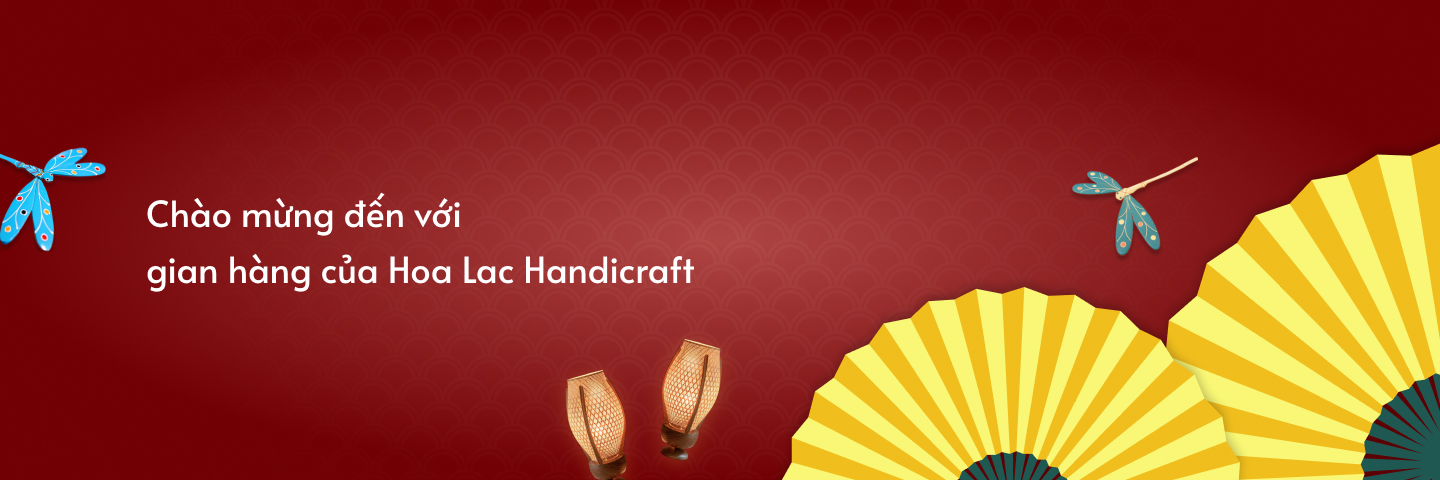
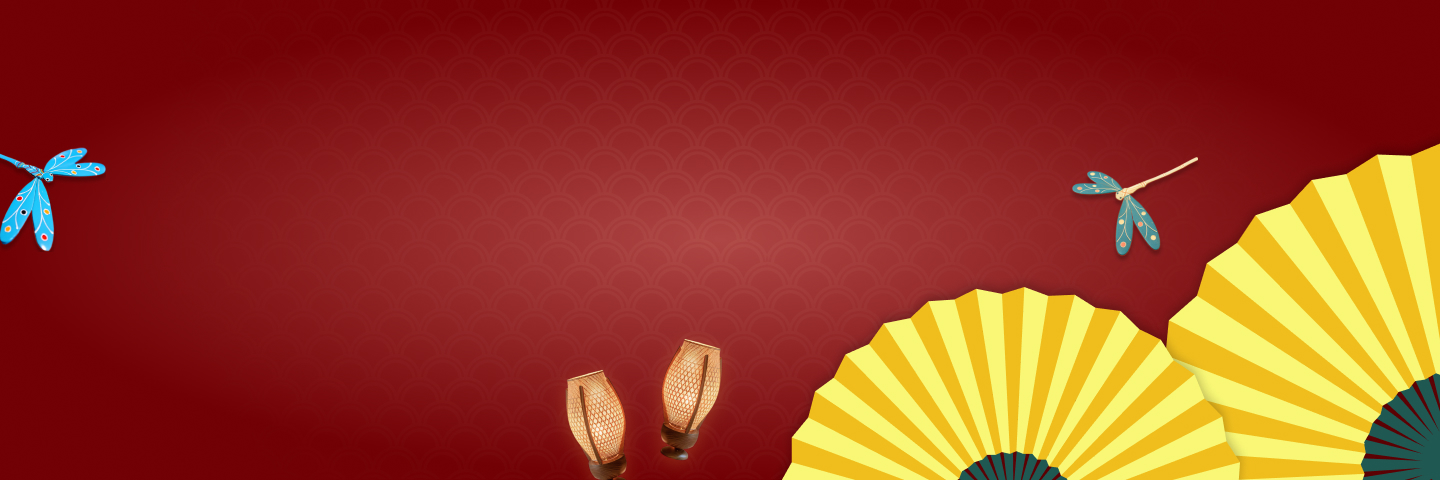
mapping Categories

Changed region(s): [[0.0938, 0.5312, 0.5, 0.625], [0.0938, 0.4062, 0.3438, 0.5]]

diff --git a/frontend/src/pages/Shop.jsx b/frontend/src/pages/Shop.jsx
@@ -1,32 +1,23 @@
-import React from 'react';
-import ProductCard from '../components/shop/ProductCard';
-import Pagination from '../components/shop/Pagination';
+import React, { useState } from 'react';
 import Footer from '../components/shared/Footer';
 import Header from '../components/shared/Header';
 import ShopBanner from '../components/shop/ShopBanner';
-import { useState } from 'react';
+import { ProductCard, Pagination } from '../components/shop/ShopComponents';
+import ShopFilter from '../components/shop/ShopFilter';
 
 export default function Shop() {
   const [selectedCategory, setSelectedCategory] = useState('Chuồn chuồn tre Thạch Xá');
+
   return (
     <div className="bg-[#fdfeee] min-h-screen">
       <Header />
-  <ShopBanner onSelect={label => setSelectedCategory(label)} />
+      <ShopBanner onSelect={(label) => setSelectedCategory(label)} />
 
-  <main className="max-w-screen-xl mx-auto px-8 py-12">
-        <section className="mb-8">
-          <h2 className="font-Alata text-3xl text-[#9e211f]">{selectedCategory}</h2>
-          <div className="mt-4 flex items-center justify-between">
-            <div className="flex gap-3">
-              <div className="bg-[#faf998] p-4 rounded-lg">Chuồn chuồn tre Thạch Xá</div>
-              <div className="bg-[#e0e0e0] p-4 rounded-lg">Quạt Chàng Sơn</div>
-            </div>
-            <div className="flex items-center gap-3">
-              <div className="border p-2 rounded-md">Tìm kiếm</div>
-              <div className="p-2">Bộ lọc</div>
-            </div>
-          </div>
-        </section>
+      <main className="max-w-screen-xl mx-auto px-8 py-12">
+        <ShopFilter
+          selectedCategory={selectedCategory}
+          onCategoryChange={setSelectedCategory}
+        />
 
         <section className="grid grid-cols-4 gap-6">
           {Array.from({ length: 12 }).map((_, i) => (
@@ -39,7 +30,7 @@ export default function Shop() {
         </div>
       </main>
 
-    <Footer/>
+      <Footer />
     </div>
   );
 }

diff --git a/frontend/src/components/artisanShop/Banner.jsx b/frontend/src/components/artisanShop/Banner.jsx
@@ -1,7 +1,6 @@
 import React from 'react';
 import CustomBreadcrumbs from '../shared/CustomBreadcrumbs';
 
-
 // Background image (nếu nằm trong public/images)
 const imgC = "/images/Rectangle 38.png";
 const imgFb = "/images/FacebookLogo.png";
@@ -13,7 +12,7 @@ const imgVuesaxLinearExport = "/images/Share-white-icon.png";
 
 const Banner = () => {
   return (
-    <section className="relative container mx-auto px-4 py-12 min-h-[300px]">
+    <section className="relative w-full">
       {/* Background Images */}
       <div className="absolute inset-0 z-0">
         <img
@@ -23,19 +22,20 @@ const Banner = () => {
         />
       </div>
 
- {/* Breadcrumb đè lên banner, giữ vị trí tương tự (responsive padding) */}
-      <div className="absolute left-4 top-4 md:left-8 md:top-8 z-20">
-        <div className="text-white">
+      {/* Breadcrumb đè lên banner */}
+      <div className="absolute top-4 left-4">
+        <div className="bg-white/80 py-2 px-4 rounded-md">
           <CustomBreadcrumbs
             breadcrumbs={[
               { label: 'Trang chủ', href: '/' },
-              { label: 'Cửa hàng', href: '/about' }
+              { label: 'Cửa hàng', href: '/artisanShop' }
             ]}
           />
         </div>
       </div>
+
       {/* Banner Content */}
-      <div className="relative z-10 flex flex-col gap-6 pt-20">
+      <div className="relative z-10 flex flex-col gap-6 pt-20 px-4">
         <div className="flex gap-6 items-start">
           <img src={imgEllipse41} alt="Shop logo" className="w-20 h-20" />
           <div>

diff --git a/frontend/src/components/shop/ShopFilter.jsx b/frontend/src/components/shop/ShopFilter.jsx
@@ -1,0 +1,42 @@
+import React, { useEffect, useState } from 'react';
+import { CategoryService } from '../../services/modules/products/categoryService';
+
+export default function ShopFilter({ selectedCategory, onCategoryChange }) {
+  const [categories, setCategories] = useState([]);
+
+  useEffect(() => {
+    const fetchCategories = async () => {
+      try {
+        const data = await CategoryService.getAllCategories();
+        setCategories(data);
+      } catch (error) {
+        console.error('Failed to fetch categories:', error);
+      }
+    };
+
+    fetchCategories();
+  }, []);
+
+  return (
+    <section className="mb-8">
+      <h2 className="font-Alata text-3xl text-[#9e211f]">{selectedCategory}</h2>
+      <div className="mt-4 flex items-center justify-between">
+        <div className="flex gap-3">
+          {categories.map((category) => (
+            <div
+              key={category.id}
+              className="bg-[#faf998] p-4 rounded-lg cursor-pointer"
+              onClick={() => onCategoryChange(category.name)}
+            >
+              {category.name || 'Unnamed Category'}
+            </div>
+          ))}
+        </div>
+        <div className="flex items-center gap-3">
+          <div className="border p-2 rounded-md cursor-pointer">Tìm kiếm</div>
+          <div className="p-2 cursor-pointer">Bộ lọc</div>
+        </div>
+      </div>
+    </section>
+  );
+}

diff --git a/frontend/src/components/shop/ShopBanner.jsx b/frontend/src/components/shop/ShopBanner.jsx
@@ -1,25 +1,30 @@
 import React from 'react';
 
-const ShopBanner = ({ image = '/images/ShopBanner.jpg', link = '', alt = 'Shop banner', className = '' }) => {
-	return (
-		<section className="shop-banner-section">
-			{link ? (
-				<a href={link} aria-label={alt}>
-					<img
-						src={image}
-						alt={alt}
-						className={`w-full h-auto object-cover ${className}`.trim()}
-					/>
-				</a>
-			) : (
-				<img
-					src={image}
-					alt={alt}
-					className={`w-full h-auto object-cover ${className}`.trim()}
-				/>
-			)}
-		</section>
-	);
+const ShopBanner = () => {
+  return (
+    <section className="relative w-full h-[300px] md:h-[400px] lg:h-[600px] bg-red-700">
+      {/* Background Images */}
+      <div className="absolute inset-0 z-0">
+        <img
+          src="/images/Shopbanner.jpg"
+          alt="Shop Banner"
+          className="w-full h-full object-cover"
+        />
+      </div>
+
+      {/* Typo Content */}
+      <div className="absolute inset-0 flex items-center left-[250px]">
+        <div className="text-white">
+          <h1 className="text-4xl md:text-5xl font-bold">
+            Chào mừng đến với
+          </h1>
+          <p className="text-4xl md:text-5xl mt-2">
+            Gian hàng của Hoa Lac Handicraft
+          </p>
+        </div>
+      </div>
+    </section>
+  );
 };
 
 export default ShopBanner;

diff --git a/frontend/src/components/shop/ShopComponents.jsx b/frontend/src/components/shop/ShopComponents.jsx
@@ -1,0 +1,36 @@
+import React from 'react';
+
+const shopAvatar = '/images/avatar.png';
+
+export function ProductCard({ title = 'Sản phẩm', price = '100.000đ', oldPrice = '200.000đ', shop = 'Shop A' }) {
+  return (
+    <div className="w-full max-w-[270px]">
+      <div className="bg-[#d9d9d9] h-[320px] rounded-[12px] mb-3" />
+      <h3 className="font-Nunito font-medium text-[18px]">{title}</h3>
+      <div className="flex items-center gap-2">
+        <img src={shopAvatar} alt="shop avatar" className="w-6 h-6 rounded-full" />
+        <p className="text-sm">{shop}</p>
+      </div>
+      <div className="flex items-baseline gap-3">
+        <p className="text-[#686868]">{price}</p>
+        <p className="text-[#9e211f] font-Alata">{oldPrice}</p>
+      </div>
+    </div>
+  );
+}
+
+export function Pagination({ className = '' }) {
+  return (
+    <div className={`${className} flex items-center gap-4`}>
+      <button className="p-2">&lt;</button>
+      <div className="flex gap-4">
+        <button className="font-bold">1</button>
+        <button className="text-[#a0a0a0]">2</button>
+        <button className="text-[#a0a0a0]">3</button>
+        <span className="text-[#a0a0a0]">...</span>
+        <button className="text-[#a0a0a0]">10</button>
+      </div>
+      <button className="p-2">&gt;</button>
+    </div>
+  );
+}

diff --git a/frontend/src/pages/ArtisanShop.jsx b/frontend/src/pages/ArtisanShop.jsx
@@ -2,8 +2,7 @@ import React from 'react';
 import Footer from '../components/shared/Footer';
 import Header from '../components/shared/Header';
 import Banner from '../components/artisanShop/Banner';
-import Pagination from '../components/shop/Pagination';
-import ProductCard from '../components/shop/ProductCard';
+import { ProductCard, Pagination } from '../components/shop/ShopComponents';
 import FilterSection from '../components/artisanShop/FilterSection';
 
 const ArtisanShop = () => {

diff --git a/frontend/src/services/api/endpoints.jsx b/frontend/src/services/api/endpoints.jsx
@@ -6,11 +6,17 @@ export const API_ENDPOINTS = {
     UPDATE: (id) => `/products/${id}`,
     DELETE: (id) => `/products/${id}`,
   },
+
+  Categories: {
+    GET_ALL: '/categories',
+  },
+
   AUTH: {
     LOGIN: '/login',
     REGISTER: '/register',
     VERIFY_OTP: '/verify-otp',
   },
+  
   USERS: {
     USERS_PROFILE: '/users/me',
     UPDATE_PROFILE: '/users/profile/update',

diff --git a/frontend/src/services/modules/products/categoryService.jsx b/frontend/src/services/modules/products/categoryService.jsx
@@ -1,0 +1,14 @@
+import axiosClient from '../../api/axiosConfig';
+import { API_ENDPOINTS } from '../../api/endpoints';
+
+export const CategoryService = {
+
+  getAllCategories: async () => {
+    try {
+      const response = await axiosClient.get(API_ENDPOINTS.Categories.GET_ALL);
+      return response.data;
+    } catch (error) {
+      throw error;
+    }
+  },
+};

diff --git a/frontend/src/services/modules/products/productService.jsx b/frontend/src/services/modules/products/productService.jsx
@@ -45,5 +45,6 @@ export const ProductService = {
     } catch (error) {
       throw error;
     }
-  }
+  },
+
 };
